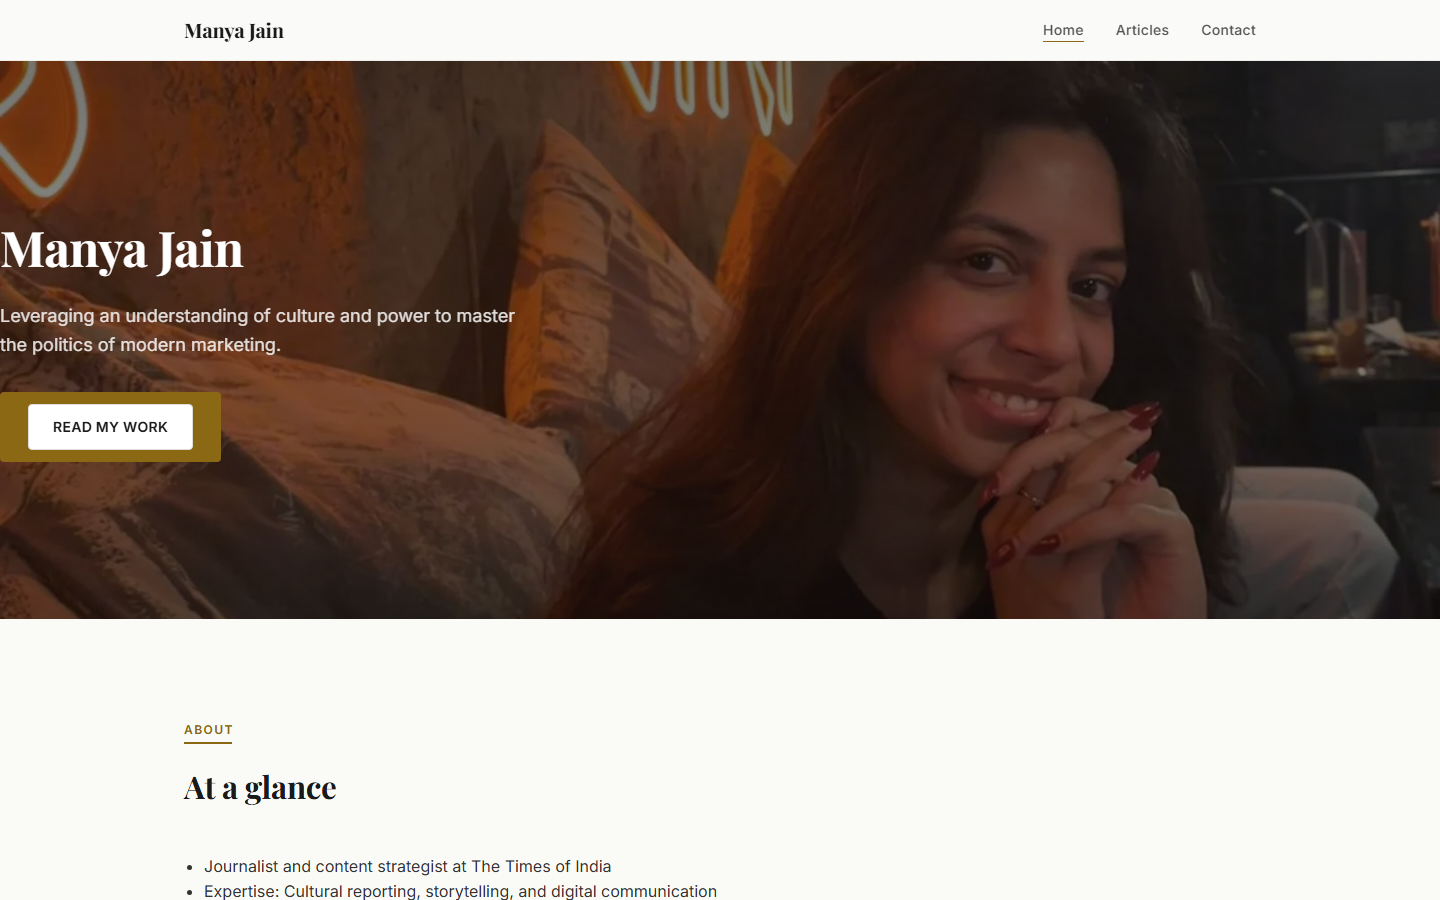
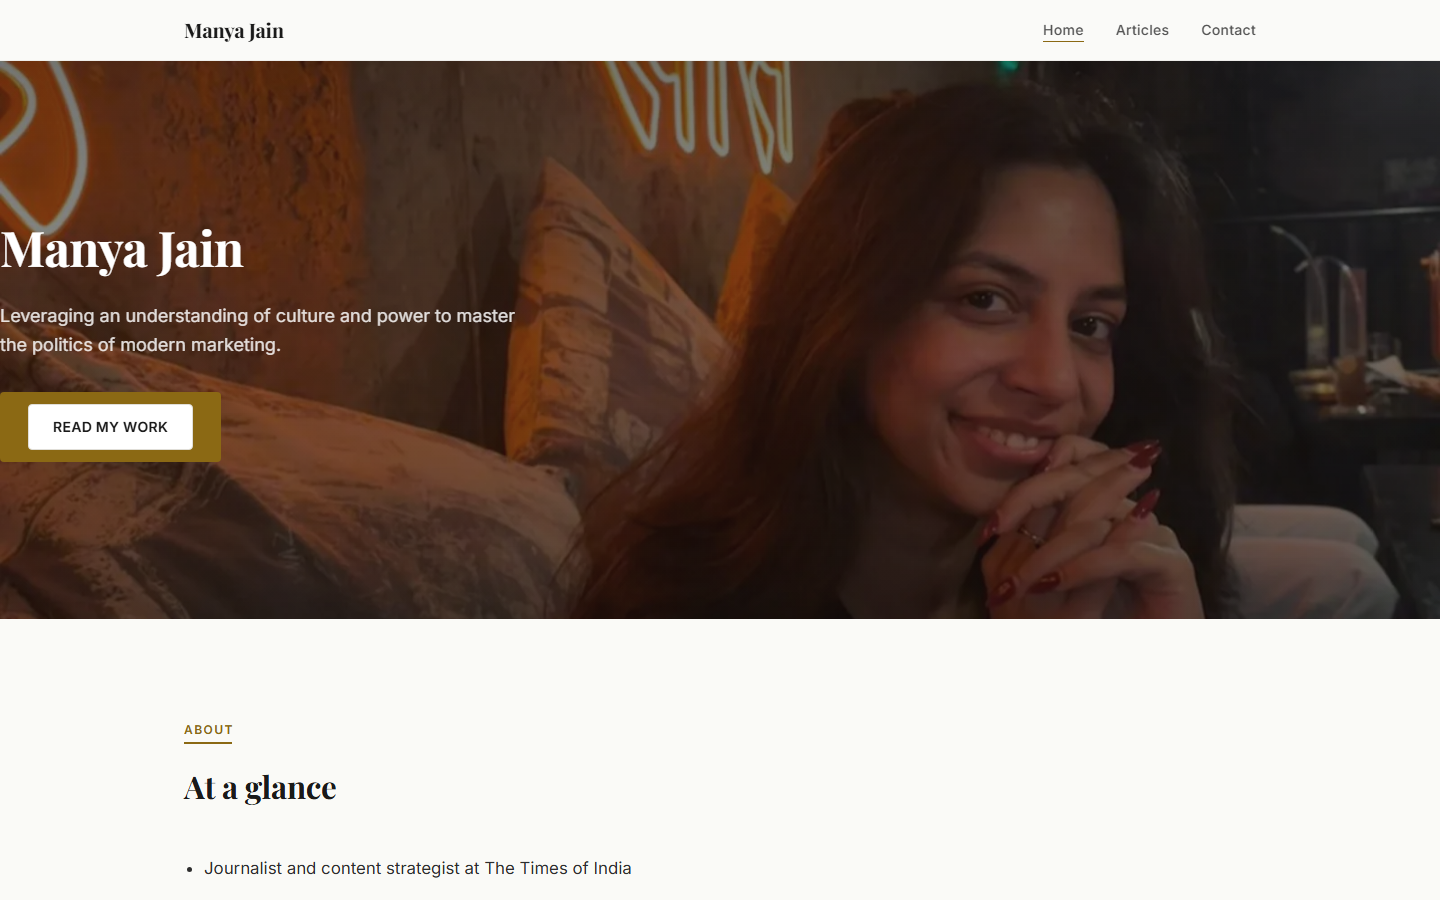
fix: hero text update, mobile hero cropping fix, contact mobile layout fix, remove unused images

diff --git a/styles.css b/styles.css
@@ -823,17 +823,34 @@ p { margin-bottom: var(--space-md); }
 }
 
 /* For <img> or <picture> hero fallback */
-.hero img, .site-hero img, .hero .hero-image {
-  width: 100%;
-  height: 100%;
-  object-fit: cover;
-  object-position: 35% center;
+.hero img.hero-img {
+  position:absolute;
+  inset:0;
+  width:100%;
+  height:100%;
+  object-fit:cover;
+  object-position: 70% 35%;
+  filter:saturate(.9) contrast(.95);
+  transition:transform .4s ease, opacity .4s ease;
 }
 
-/* Mobile tuning: nudge focus left */
-@media (max-width: 768px) {
-  .hero, .site-hero { min-height: 48vh; background-position: 20% center; }
-  .hero img, .site-hero img { object-position: 20% center; }
+@media (max-width:768px) {
+  .hero {
+    min-height:52vh;
+  }
+  .hero img.hero-img {
+    object-position: 78% 35%;
+  }
+  .hero-inner {
+    padding:32px 20px;
+    max-width:420px;
+  }
+  .hero-inner h1 {
+    font-size:2rem;
+  }
+  .hero-inner .lead {
+    font-size:1rem;
+  }
 }
 
 /* Hide article dates in UI */
@@ -844,29 +861,39 @@ p { margin-bottom: var(--space-md); }
 article time { display: none !important; visibility: hidden !important; height: 0 !important; margin: 0 !important; padding: 0 !important; }
 
 /* At a glance styles */
-.at-a-glance .glance-list { list-style: disc; margin-left: 1.25rem; color: #333; line-height: 1.6; }
-.at-a-glance h2 { margin-bottom: 1rem; }
+.at-a-glance .glance-list {
+  font-size:1.05rem;
+  line-height:1.75;
+  max-width:680px;
+  color:#2d2d2d;
+  list-style: disc;
+  margin-left: 1.25rem;
+}
+.at-a-glance li {
+  margin-bottom:10px;
+}
+.at-a-glance h2 {
+  margin-bottom:1.2rem;
+}
 
 /* Contact Section layout modifications */
 .contact.section { padding-top: var(--space-2xl); }
-
-.contact-container, .contact-grid {
-  display: flex;
-  flex-direction: column;
-  gap: 2rem;
+.contact-grid {
+  display:flex;
+  flex-direction:column;
+  gap:2rem;
+}
+.contact-portrait {
+  order:-1;
 }
 
-@media (max-width: 768px) {
-  .contact-container, .contact-grid {
-      flex-direction: column;
+@media(min-width:768px){
+  .contact-grid {
+    display:grid;
+    grid-template-columns:1fr 300px;
+    align-items:flex-start;
   }
-  .contact-photo {
-      order: -1;
+  .contact-portrait {
+    order:0;
   }
-}
-
-@media(min-width: 769px){
-  .contact-grid { flex-direction: row; align-items: flex-start; }
-  .contact-cards-group { flex: 1; }
-  .contact-portrait, .contact-photo { width: 300px; }
 }

diff --git a/script.js b/script.js
@@ -279,39 +279,6 @@
   }
 
 
-  /* ----------------------------------------------------------
-     HERO FOCAL POINT
-     1. Tries to load assets/focal_points.json (written by
-        scripts/generate_crops.py) and applies detected focus.
-     2. Falls back to data-focus-x / data-focus-y attributes
-        on the .hero element (manual override).
-     3. Sets --hero-focus CSS custom property for object-position.
-     ---------------------------------------------------------- */
-  async function applyHeroFocus(){
-    try{
-      const resp = await fetch('assets/focal_points.json', {cache:'no-store'});
-      if(!resp.ok) throw new Error('no focal JSON');
-      const focal = await resp.json();
-      const hero = document.getElementById('hero');
-      const key = 'photo1';
-      if(focal && focal[key]){
-        const fx = focal[key].focus_x_pct;
-        const fy = focal[key].focus_y_pct;
-        document.documentElement.style.setProperty('--hero-focus', `${fx}% ${fy}%`);
-        if(hero) { hero.setAttribute('data-focus-x', fx); hero.setAttribute('data-focus-y', fy); }
-        return;
-      }
-    }catch(e){
-      // fallback: read data attributes or center
-      const hero = document.getElementById('hero');
-      if(hero){
-        const dx = hero.getAttribute('data-focus-x') || 50;
-        const dy = hero.getAttribute('data-focus-y') || 50;
-        document.documentElement.style.setProperty('--hero-focus', `${dx}% ${dy}%`);
-      }
-    }
-  }
-
 
   /* ----------------------------------------------------------
      HERO IMAGE FALLBACK
@@ -334,7 +301,6 @@
   document.addEventListener('DOMContentLoaded', () => {
     initNav();
     initSmoothScroll();
-    applyHeroFocus();
     initHeroFallback();
     renderFeatured();
     initArticlesPage();

diff --git a/index.html b/index.html
@@ -71,7 +71,7 @@
   <!-- ============================================================
        HERO
        ============================================================ -->
-  <section class="hero" id="hero" role="banner" aria-label="Intro banner" data-focus-x="50" data-focus-y="50" style="--hero-focus: 25% 50%;">
+  <section class="hero" id="hero" role="banner" aria-label="Intro banner">
     <!-- preload top hero -->
     <link rel="preload" as="image" href="assets/photo1-1600-900.webp" type="image/webp">
     <picture id="heroPicture">
